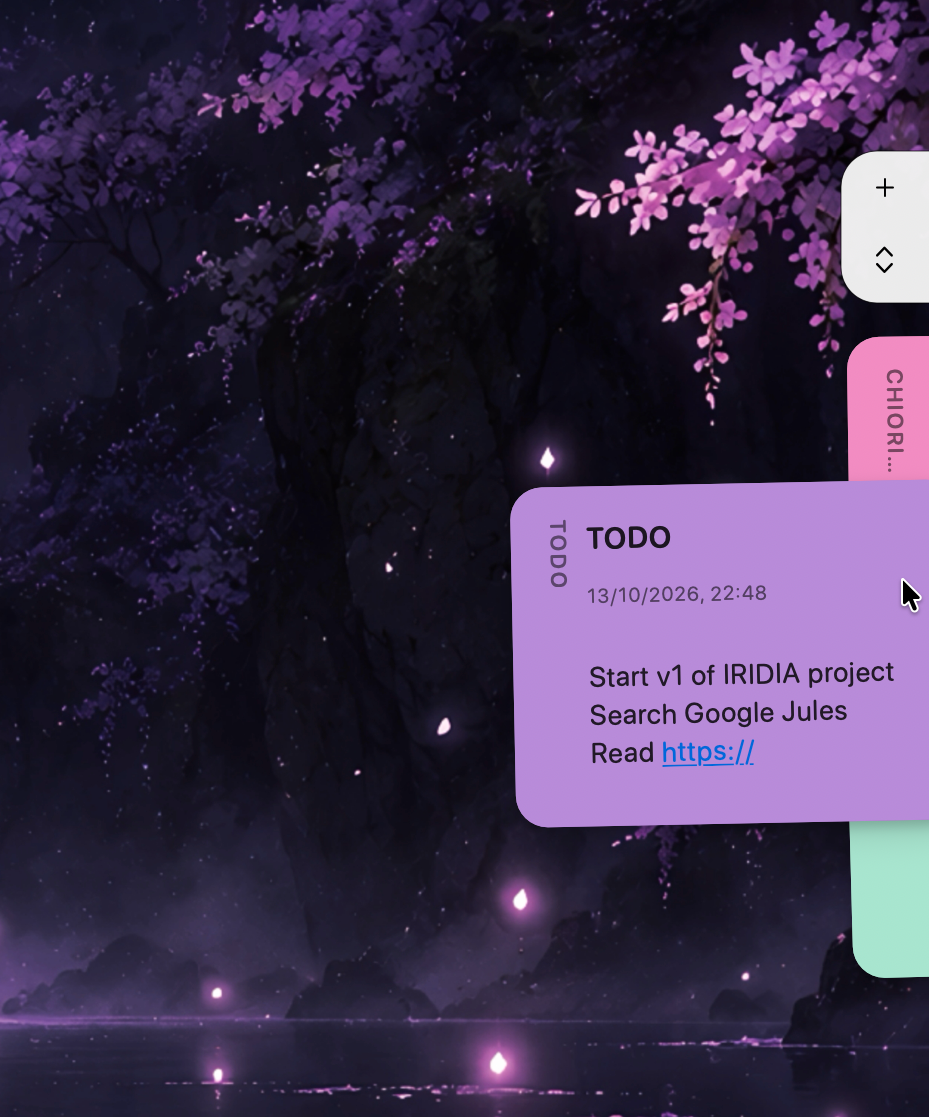
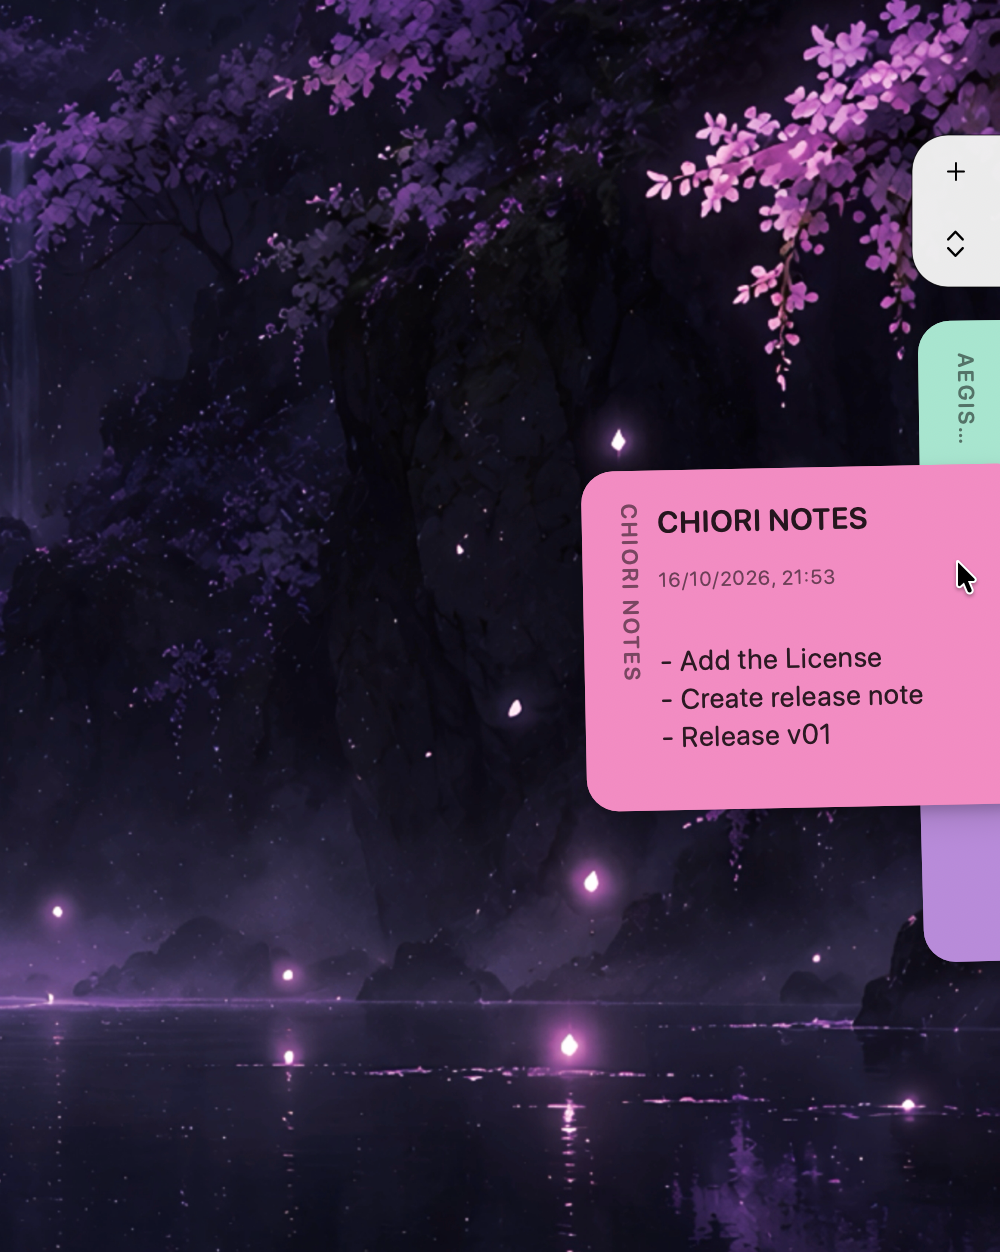
Image Alignemts

diff --git a/README.md b/README.md
@@ -1,12 +1,12 @@
 # SHIORI
 
-SHIORI is a free, open-source macOS menu-bar app for sticky notes that stay close to your work. Keep notes at the screen edge, hover to preview them, or open them as floating windows.
-
-![A SHIORI note with handwritten text and its editing controls](Resources/shiori-note-editor.png)
-
-![Hovering over SHIORI edge tabs reveals a note preview](Resources/shiori-hover-fan.png)
-
+SHIORI is a free, open-source macOS menu-bar app for sticky notes that stay close to your work. Keep notes at the screen edge, hover to preview them, or open them as floating windows. 
 Write in Markdown with clickable checklists, choose a note color and font, and find notes with Quick Search. Attach notes to an app so they follow its active window, or use Focus to keep one note in view.
+
+<p align="center">
+  <img src="Resources/shiori-note-editor.png" alt="SHIORI note editor" width="48%" />
+  <img src="Resources/shiori-hover-fan.png" alt="SHIORI hover preview" width="48%" />
+</p>
 
 ## Install
 
